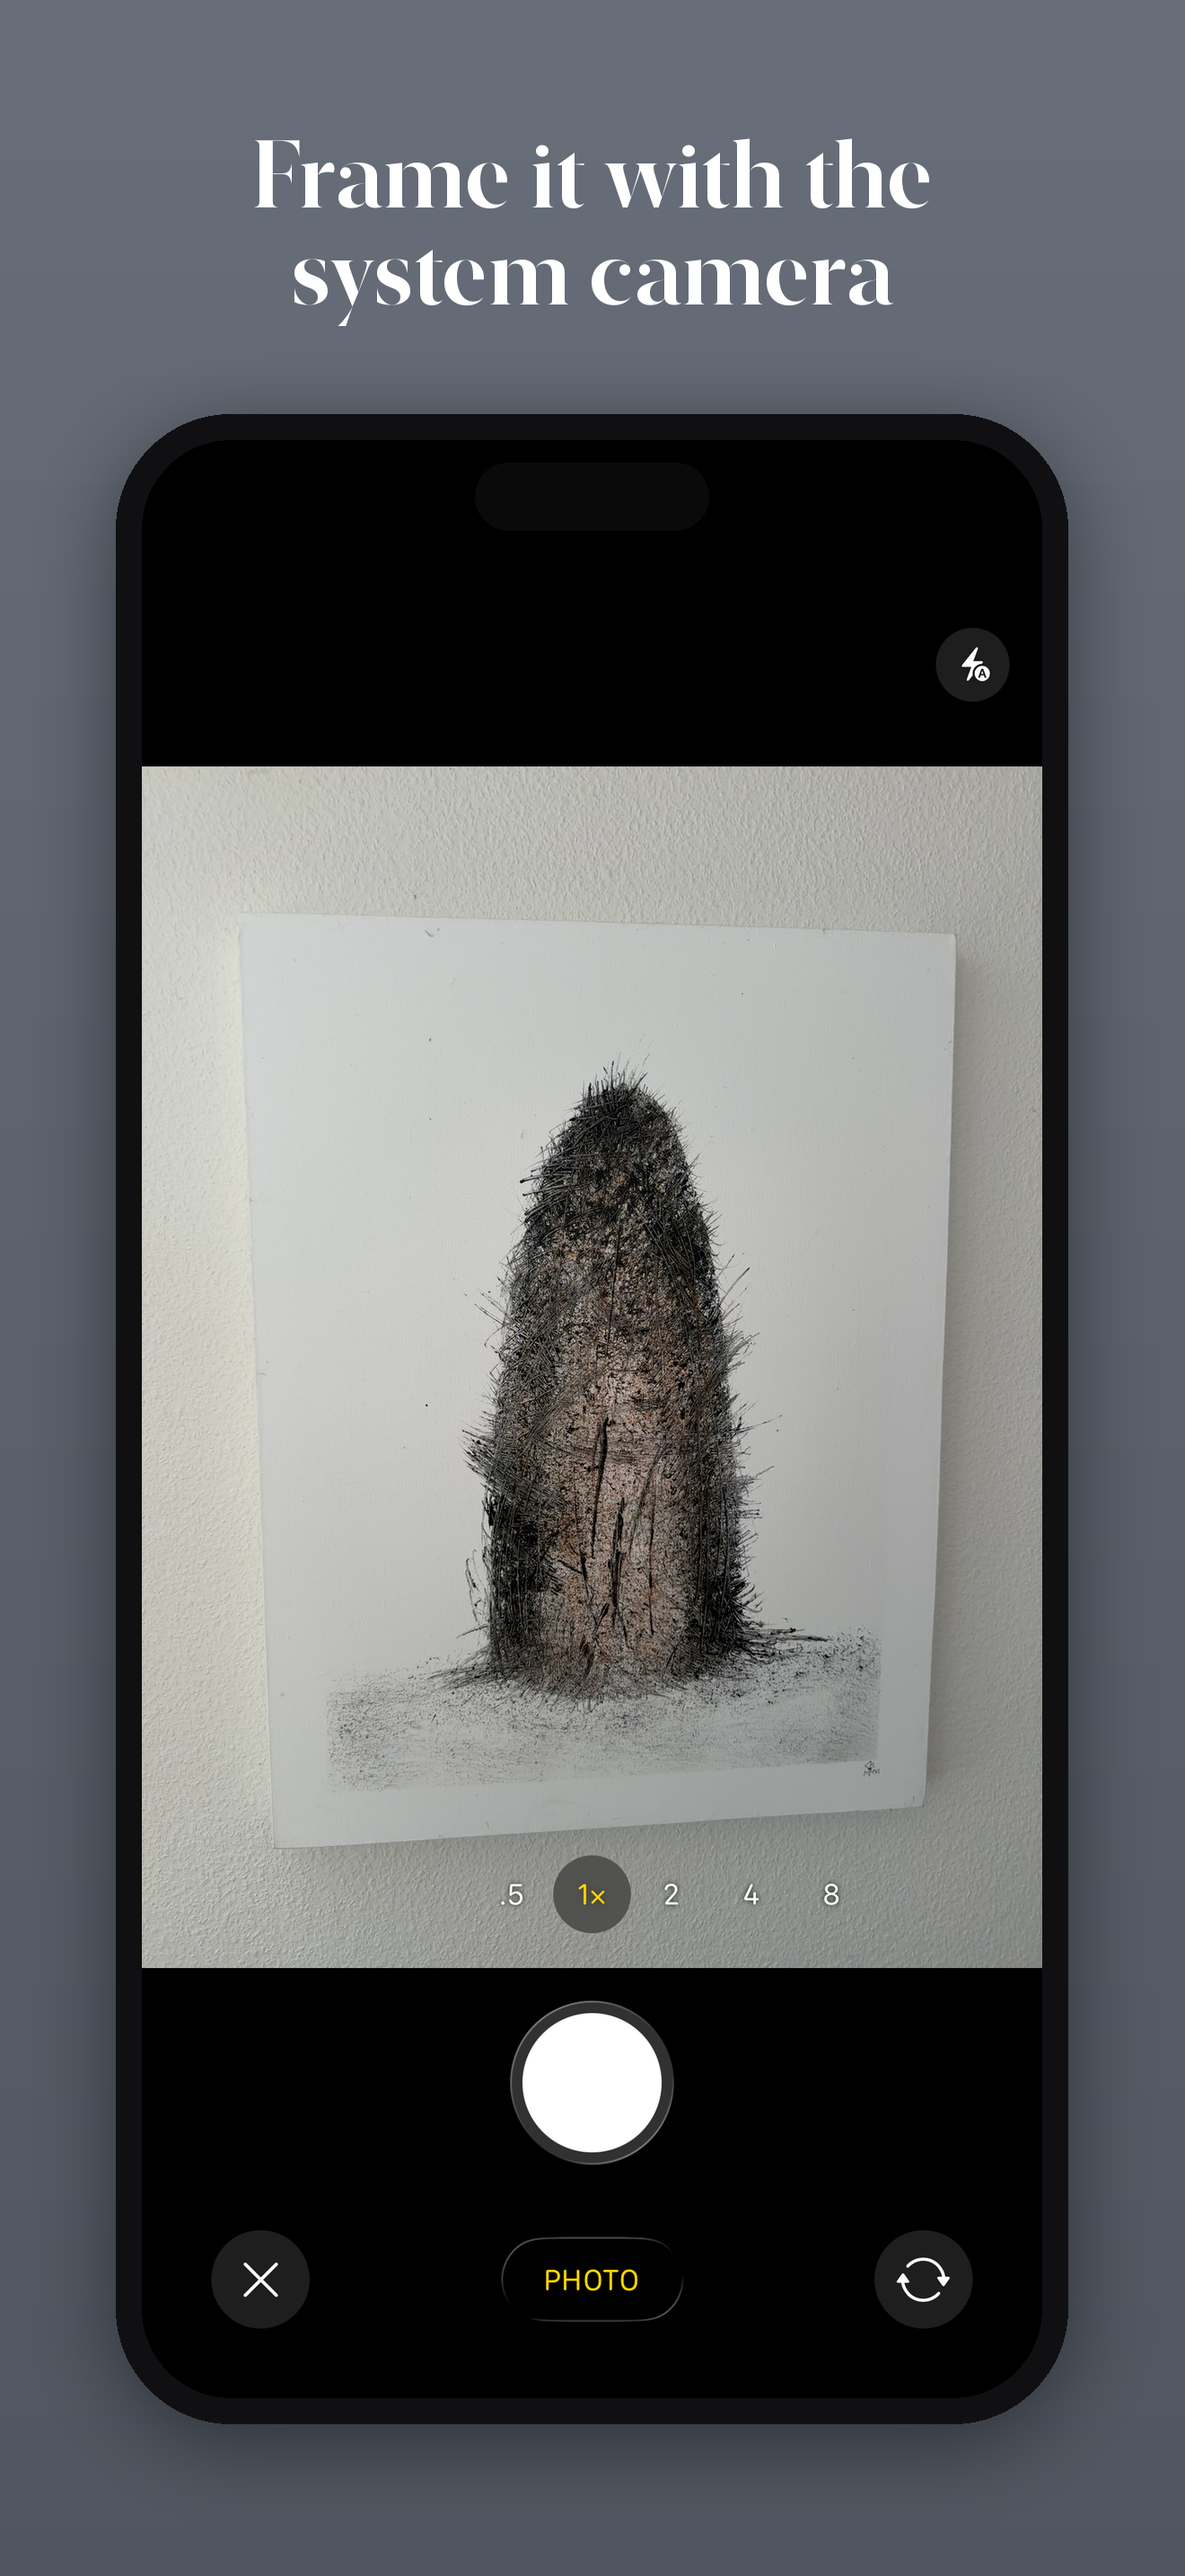
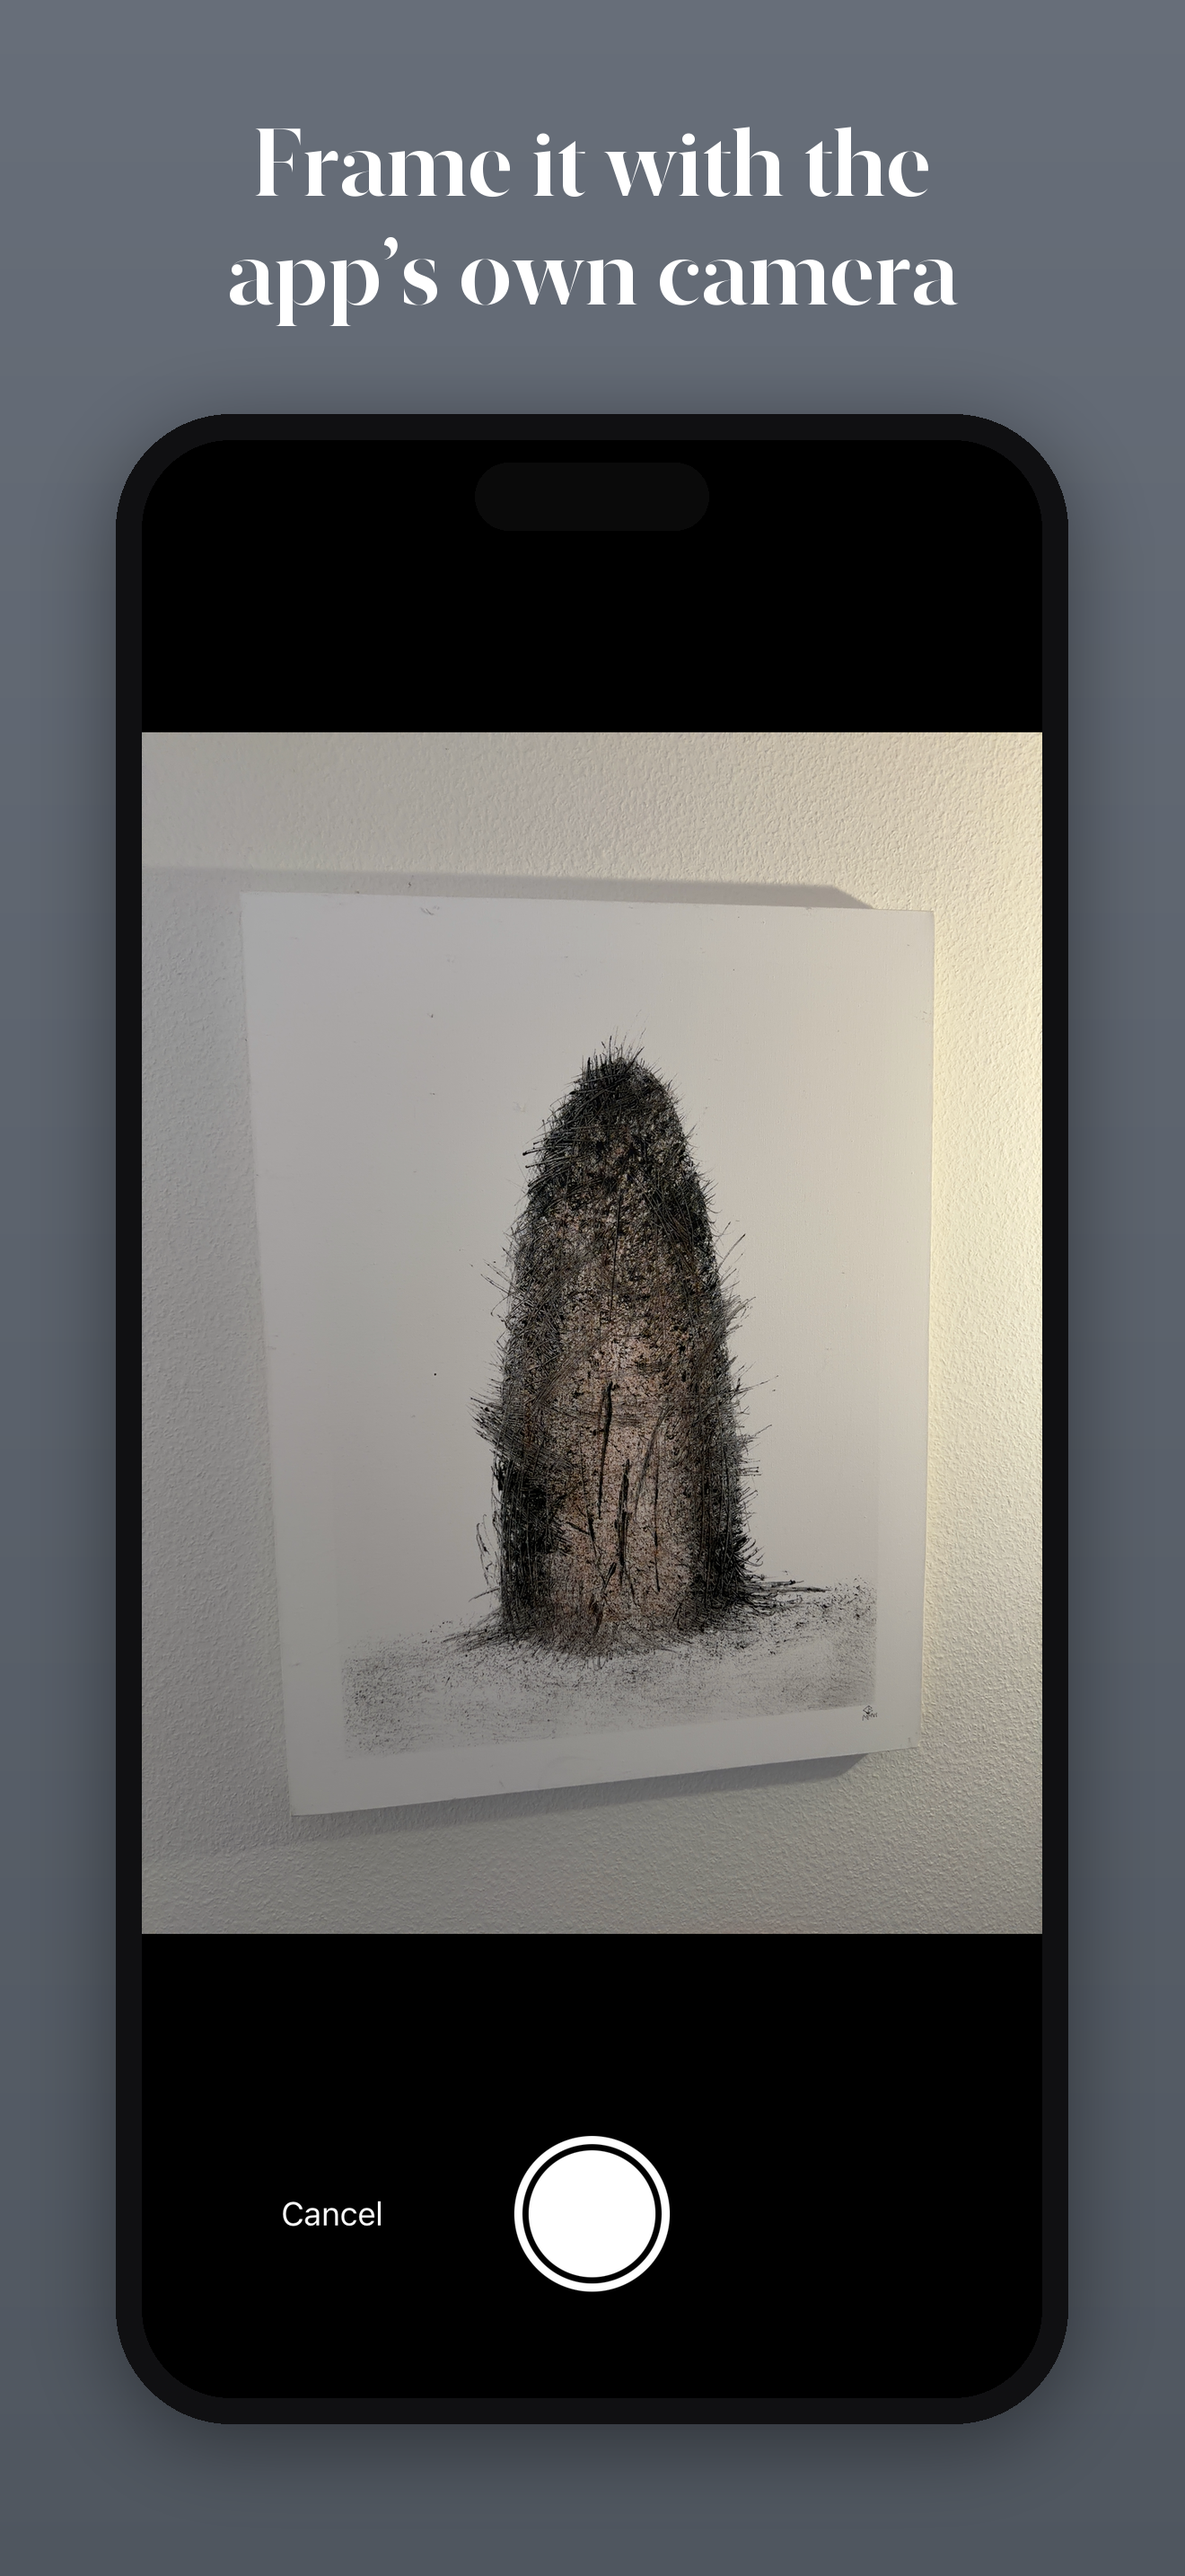
chore: shot 10 shows the new in-app camera on iPhone and iPad
Raw captures taken on hardware from the 1.6.0 (build 10) TestFlight
build. Caption reworded to avoid the hyphen, which the New York caption
font drops like the em dash.

diff --git a/Design/Screenshots/make_ipad_shots.py b/Design/Screenshots/make_ipad_shots.py
@@ -45,7 +45,7 @@ SHOTS = [
     ("iPad_7.png", "AI restores the\nartwork underneath", "device"),
     ("iPad_8.png", "Your AI provider,\nyour key", "device"),
     ("iPad_9.png", "Or shoot it right\nin the app", "device"),
-    ("iPad_10.png", "Frame it with the\nin-app camera", "device"),
+    ("iPad_10.png", "Frame it with the\napp’s own camera", "device"),
     ("iPad_11.png", "Straight from\nthe camera", "device"),
 ]
 

diff --git a/Design/Screenshots/make_iphone_shots.py b/Design/Screenshots/make_iphone_shots.py
@@ -44,7 +44,7 @@ CAPTIONS = [
     "AI restores the\nartwork underneath",
     "Your AI provider,\nyour key",
     "Or shoot it right\nin the app",
-    "Frame it with the\nin-app camera",
+    "Frame it with the\napp’s own camera",
     "Straight from\nthe camera",
 ]
 
